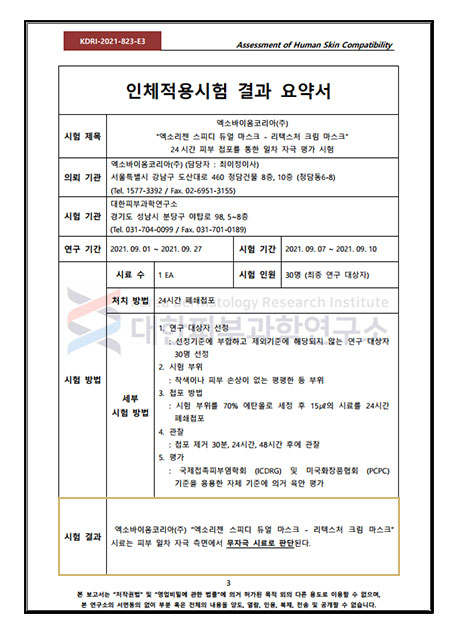
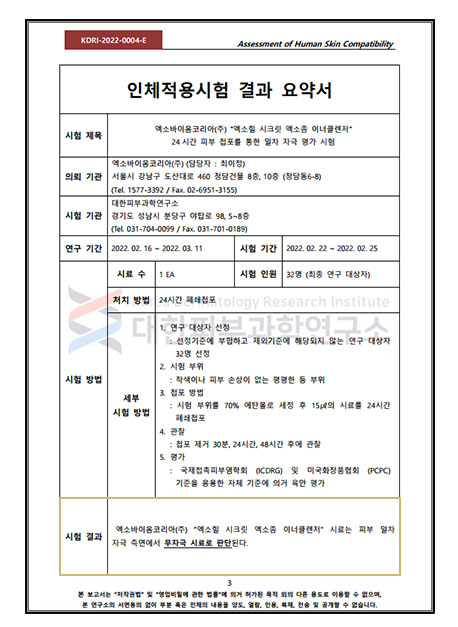
[PC/대한피부과학연구소] 이너 클렌저 & 이너 미스트 & 이너 세럼 컨텐츠 추가

Changed region(s): [[0.0306, 0.0303, 0.9476, 1.0]]

diff --git a/brand06.html b/brand06.html
@@ -312,22 +312,31 @@
                 <div class="b06-cont">
                     <div class="tab-outer">
                         <div class="tab-wrap swiper-container" id="tabSwiper">
-                            <ul class="tab-list swiper-wrapper" style="justify-content: center;">
+                            <ul class="tab-list swiper-wrapper" style="padding: 0 49px;">
                                 <li class="swiper-slide">
                                     <a href="#none" class="tab choice">스칼프 엑스퍼트 엑소좀 샴푸</a>
                                 </li>
                                 <li class="swiper-slide">
                                     <a href="#none" class="tab">스칼프 엑스퍼트 엑소좀 앰플 트리트먼트</a>
                                 </li>
+                                <li class="swiper-slide">
+                                    <a href="#none" class="tab">시크릿 엑소좀 이너 클렌저</a>
+                                </li>
+                                <li class="swiper-slide">
+                                    <a href="#none" class="tab">시크릿 엑소좀 이너 미스트</a>
+                                </li>
+                                <li class="swiper-slide">
+                                    <a href="#none" class="tab">시크릿 엑소좀 이너 세럼</a>
+                                </li>
                             </ul>
-                            <!--<div class="swiper-button-next">
+                            <div class="swiper-button-next">
                                 <img src="/img_/icon/tab-next.png" alt="">
                                 <img src="/img_/icon/tab-next-active.png" alt="">
                             </div>
                             <div class="swiper-button-prev">
                                 <img src="/img_/icon/tab-prev.png" alt="">
                                 <img src="/img_/icon/tab-prev-active.png" alt="">
-                            </div>-->
+                            </div>
                         </div>
                     </div>
                     <div class="cont-wrap">
@@ -335,7 +344,7 @@
                         <div class="cont cont1-box cont-show">
                             <div class="cont2-1 flex-cont flex-start">
                                 <div class="cont-sub1 type2-sub1">
-                                    <img src="/img_/brand/brand06/permit-1.jpg" alt="세럼 투 폼 버블 클렌저 요약서" />
+                                    <img src="/img_/brand/brand06/permit-1.jpg" alt="스칼프 엑스퍼트 엑소좀 앰플 샴푸 요약서" />
                                 </div>
                                 <div class="cont-sub2 type2-sub2">
                                     <h4>
@@ -350,7 +359,7 @@
                                         <b>시험결과</b>
                                         <p>
                                             엑소바이옴코리아(주)"엑소힐 스칼프 엑스퍼트 엑소좀 앰플 샴푸" 시료는 <br />
-                                            피부 일차 자극 측면에서 <strong>무자극 시료로 판단된다</strong>
+                                            피부 일차 자극 측면에서 <strong>무자극 시료로 판단된다.</strong>
                                         </p>
                                     </div>
                                 </div>
@@ -369,7 +378,7 @@
                         <div class="cont cont2-box">
                             <div class="cont2-1 flex-cont flex-start">
                                 <div class="cont-sub1 type2-sub1">
-                                    <img src="/img_/brand/brand06/permit-2.jpg" alt="스피듀얼 마스크/리텍스처 크림 마스크 요약서" />
+                                    <img src="/img_/brand/brand06/permit-2.jpg" alt="스칼프 엑스퍼트 엑소좀 앰플 트리트먼트 요약서" />
                                 </div>
                                 <div class="cont-sub2 type2-sub2">
                                     <h4>
@@ -384,7 +393,7 @@
                                         <b>시험결과</b>
                                         <p>
                                             엑소바이옴코리아(주)"엑소힐 스칼프 엑스퍼트 엑소좀 앰플 트리트먼트" 시료는 <br />
-                                            피부 일차 자극 측면에서 <strong>무자극 시료로 판단된다</strong>
+                                            피부 일차 자극 측면에서 <strong>무자극 시료로 판단된다.</strong>
                                         </p>
                                     </div>
                                 </div>
@@ -397,6 +406,105 @@
                                 </div>
                             </div>
                         </div>
+
+                        <!-- cont3 -->
+                        <div class="cont cont3-box">
+                            <div class="cont2-1 flex-cont flex-start">
+                                <div class="cont-sub1 type2-sub1">
+                                    <img src="/img_/brand/brand06/permit-3.jpg" alt="시크릿 엑소좀 이너 클렌저" />
+                                </div>
+                                <div class="cont-sub2 type2-sub2">
+                                    <h4>
+                                        피부 자극 테스트 완료
+                                    </h4>
+                                    <div class="b06-mark-wrap">
+                                        <p>엑소힐 시크릿 엑소좀 이너 클렌저</p>
+                                        <img src="/img_/brand/b06-mark-only-biome.jpg" alt="대한 피부 과학 연구소 인증 마크">
+                                    </div>
+
+                                    <div class="b06-description-wrap">
+                                        <b>시험결과</b>
+                                        <p>
+                                            엑소바이옴코리아(주)"엑소힐 시크릿 엑소좀 이너 클렌저" 시료는 <br />
+                                            피부 일차 자극 측면에서 <strong>무자극 시료로 판단된다.</strong>
+                                        </p>
+                                    </div>
+                                </div>
+                            </div>
+                            <div class="summary-wrap">
+                                <img src="/img_/brand/b06-chk.jpg" alt="">
+                                <div class="summary-txt-box">
+                                    <p>인체 적용 시험 결과 요약서</p>
+                                    <p>기관:피부과학연구소 | 기간: 2022.02.22 ~ 2022.02.25 | 인원: 32명</p>
+                                </div>
+                            </div>
+                        </div> 
+                        
+                        <!-- cont4 -->
+                        <div class="cont cont4-box">
+                            <div class="cont2-1 flex-cont flex-start">
+                                <div class="cont-sub1 type2-sub1">
+                                    <img src="/img_/brand/brand06/permit-4.jpg" alt="시크릿 엑소좀 이너 미스트 요약서" />
+                                </div>
+                                <div class="cont-sub2 type2-sub2">
+                                    <h4>
+                                        피부 자극 테스트 완료
+                                    </h4>
+                                    <div class="b06-mark-wrap">
+                                        <p>엑소힐 시크릿 엑소좀 이너 미스트</p>
+                                        <img src="/img_/brand/b06-mark-only-biome.jpg" alt="대한 피부 과학 연구소 인증 마크">
+                                    </div>
+
+                                    <div class="b06-description-wrap">
+                                        <b>시험결과</b>
+                                        <p>
+                                            엑소바이옴코리아(주)"엑소힐 시크릿 엑소좀 이너 미스트" 시료는 <br />
+                                            피부 일차 자극 측면에서 <strong>무자극 시료로 판단된다.</strong>
+                                        </p>
+                                    </div>
+                                </div>
+                            </div>
+                            <div class="summary-wrap">
+                                <img src="/img_/brand/b06-chk.jpg" alt="">
+                                <div class="summary-txt-box">
+                                    <p>인체 적용 시험 결과 요약서</p>
+                                    <p>기관:피부과학연구소 | 기간: 2022.02.08 ~ 2022.02.11 | 인원: 31명</p>
+                                </div>
+                            </div>
+                        </div> 
+
+                        <!-- cont5 -->
+                        <div class="cont cont5-box">
+                            <div class="cont2-1 flex-cont flex-start">
+                                <div class="cont-sub1 type2-sub1">
+                                    <img src="/img_/brand/brand06/permit-5.jpg" alt="시크릿 엑소좀 이너 세럼 요약서" />
+                                </div>
+                                <div class="cont-sub2 type2-sub2">
+                                    <h4>
+                                        피부 자극 테스트 완료
+                                    </h4>
+                                    <div class="b06-mark-wrap">
+                                        <p>엑소힐 시크릿 엑소좀 이너 세럼</p>
+                                        <img src="/img_/brand/b06-mark-only-biome.jpg" alt="대한 피부 과학 연구소 인증 마크">
+                                    </div>
+
+                                    <div class="b06-description-wrap">
+                                        <b>시험결과</b>
+                                        <p>
+                                            엑소바이옴코리아(주)"엑소힐 시크릿 엑소좀 이너 세럼" 시료는 <br />
+                                            피부 일차 자극 측면에서 <strong>무자극 시료로 판단된다.</strong>
+                                        </p>
+                                    </div>
+                                </div>
+                            </div>
+                            <div class="summary-wrap">
+                                <img src="/img_/brand/b06-chk.jpg" alt="">
+                                <div class="summary-txt-box">
+                                    <p>인체 적용 시험 결과 요약서</p>
+                                    <p>기관:피부과학연구소 | 기간: 2022.04.26 ~ 2022.04.29 | 인원: 33명</p>
+                                </div>
+                            </div>
+                        </div> 
                     </div>
                 </div>
             </div>
@@ -782,16 +890,15 @@
     <!-------...FOOTER------->
     <script type="text/javascript">
         $(function () {
-            /*var tabSwiper = new Swiper("#tabSwiper", {
+            var tabSwiper = new Swiper("#tabSwiper", {
                 slidesPerView: "auto",
                 spaceBetween: 90,
-                centeredSlides: true,
-                touchRatio: 0,
+                width: 1300,
                 navigation: {
                     nextEl: ".tab-wrap .swiper-button-next",
                     prevEl: ".tab-wrap .swiper-button-prev"
                 }
-            });*/
+            });
         });
     </script>
     <script type="text/javascript" src="/src_/js/brand-sub.js"></script>

diff --git a/brand06-02.html b/brand06-02.html
@@ -314,7 +314,10 @@
                         <div class="tab-wrap">
                             <ul class="tab-list">
                                 <li>
-                                    <a href="#none" class="tab choice zero">스칼프 엑스퍼트 엑소좀 샴푸</a>
+                                    <a href="#none" class="tab choice">스칼프 엑스퍼트 엑소좀 샴푸</a>
+                                </li>
+                                <li>
+                                    <a href="#none" class="tab">엑소힐 시크릿 엑소좀 이너 세럼</a>
                                 </li>
                             </ul>
                         </div>
@@ -497,6 +500,148 @@
                         </div>
                     </div>
                     <!-- ...cont1 -->
+
+                    <!-- cont 2-->
+                    <div class="cont cont2-box">
+                        <div class="cont-wrap1">
+                            <div class="section-inner">
+                                <div class="cont1-1 flex-cont">
+                                    <div class="cont-sub1">
+                                        <img src="/img_/brand/brand06-02/permit03.jpg" alt="엑소힐 시크릿 엑소좀 이너세럼 보습지속력 평가시험지" />
+                                    </div>
+                                    <div class="cont-sub2">
+                                        <h4>
+                                            24시간 보습 지속력 효능 평가 시험 완료
+                                        </h4>
+                                        <div class="b06-mark-wrap">
+                                            <p>엑소힐 시크릿 엑소좀 이너 세럼</p>
+                                            <img src="/img_/brand/b06-mark-only-biome.jpg" alt="대한 피부 과학 연구소 인증 마크">
+                                        </div>
+
+                                        <div class="b06-description-wrap">
+                                            <b>시험결과</b>
+                                            <p>
+                                                총 22명의 연구 대상자를 대상으로 시험한 결과 엑소바이옴코리아(주) <strong>“엑소힐 시크릿<br />
+                                                엑소좀 이너 세럼” 시료를 1회 도포한 시험 부위는 무도포 대조 부위에 비해 통계적으로<br />
+                                                유익한  수준(p&lt;0.05)으로 높은 피부 수분함량을 나타내며, 이러한 차이가 24시간 동안 <br />
+                                                지속되어 시험 시료가 24시간 지속되는 보습력을 가지고 있는 것으로 판단</strong>된다.<br />
+                                                또한 시험 중 모든 연구 대상자에서 특별한 이상반응이 관찰되지 않았다.<br />
+                                                (일시적, 개인차 있음)
+                                            </p>
+                                        </div>
+                                    </div>
+                                </div>
+                                <div class="summary-wrap">
+                                    <img src="/img_/brand/b06-chk.jpg" alt="">
+                                    <div class="summary-txt-box">
+                                        <p>인체 적용 시험 결과 요약서</p>
+                                        <p>기관:피부과학연구소 | 기간: 2022.05.09 ~ 2022.05.10 | 인원: 22명</p>
+                                    </div>
+                                </div>
+                            </div>
+                            <div class="graph-wrap">
+                                <div class="section-inner">
+                                    <h4>
+                                        임상으로 검증 받은 <strong>24시간 보습 지속력 효과</strong>
+                                    </h4>
+                                    <img src="/img_/brand/brand06-02/graph-serum01.png" alt="그래프">
+                                </div>
+                            </div>
+                        </div>
+
+                        <div class="cont-wrap2">
+                            <div class="section-inner">
+                                <div class="cont1-1 flex-cont">
+                                    <div class="cont-sub1">
+                                        <img src="/img_/brand/brand06-02/permit04.jpg" alt="엑소힐 시크릿 엑소좀 이너 세럼 전피 탄력 개선 효능 평가 시험지" />
+                                    </div>
+                                    <div class="cont-sub2">
+                                        <h4>
+                                            전피 탄력 개선 효능 평가 시험
+                                        </h4>
+                                        <div class="b06-mark-wrap">
+                                            <p>시크릿 엑소좀 이너 세럼</p>
+                                            <img src="/img_/brand/b06-mark-only-biome.jpg" alt="대한 피부 과학 연구소 인증 마크" />
+                                        </div>
+
+                                        <div class="b06-description-wrap">
+                                            <b>시험결과</b>
+                                            <p>
+                                                시험결과 총 4주간의 시험 기간 동안 21명의 연구 대상자를 대상으로 시험한 결과,<br />
+                                                엑소바이옴코리아㈜ “엑소힐 시크릿 엑소좀 이너 세럼“ 시료를 사용한 시험 부위는<br />
+                                                시험 2주 후 부터 시험 전에 비해 통계적으로 <strong>유의한 수준(p&lt;0.05)으로 전피 탄력이<br />
+                                                증가하여 , 시험 시료가 전피 탄력 개선에 도움을 줄수 있는것으로 판단 된다.</strong> <br />
+                                                또한 시험 중 모든 연구 대상자에서 특별한 이상반응이 관찰되지 않았다. <br />
+                                                (일시적, 개인차 있음)
+                                            </p>
+                                        </div>
+                                    </div>
+                                </div>
+                                <div class="summary-wrap">
+                                    <img src="/img_/brand/b06-chk.jpg" alt="">
+                                    <div class="summary-txt-box">
+                                        <p>인체 적용 시험 결과 요약서</p>
+                                        <p>기관:피부과학연구소 | 기간: 2022.05.11 ~ 2022.06.08 | 인원: 21명</p>
+                                    </div>
+                                </div>                            
+                            </div>
+
+                            <div class="graph-wrap">
+                                <div class="section-inner">
+                                    <h4>
+                                        임상으로 검증 받은 <strong>전피 탄력 개선 효능 평가 시험</strong>
+                                    </h4>
+                                    <img src="/img_/brand/brand06-02/graph-serum02.png" alt="그래프">
+                                </div>
+                            </div>
+                            
+                            <ul class="percentage-list">
+                                <li>
+                                    <img src="/img_/brand/brand06-02/percent95-lg.png" />
+                                    <p>
+                                        속 탄력이 <br />
+                                        개선되었어요.
+                                    </p>
+                                </li>
+                                <li>
+                                    <img src="/img_/brand/brand06-02/percent100.png" />
+                                    <p>
+                                        피부가 촉촉하고 <br />
+                                        당기지 않아요.
+                                    </p>
+                                </li>
+                                <li>
+                                    <img src="/img_/brand/brand06-02/percent95-lg.png" />
+                                    <p>
+                                        피부에서 <br />
+                                        윤기가 흘러요
+                                    </p>
+                                </li>
+                                <li>
+                                    <img src="/img_/brand/brand06-02/percent95.png" />
+                                    <p>
+                                        생기있고 컨디셔닝이 <br />
+                                        좋아졌어요.
+                                    </p>
+                                </li>
+                                <li>
+                                    <img src="/img_/brand/brand06-02/percent86.png" />
+                                    <p>
+                                        끈적임이 없고 <br />
+                                        흡수가 빨라요.
+                                    </p>
+                                </li>
+                                <li>
+                                    <img src="/img_/brand/brand06-02/percent81.png" />
+                                    <p>
+                                        제품의 향이 <br />
+                                        좋았어요.
+                                    </p>
+                                </li>
+                            </ul>
+                        </div>
+                    </div>
+                    <!-- ...cont2 -->
                 </div>
             </div>
             </div>

diff --git a/src_/css/brand-sub.css b/src_/css/brand-sub.css
@@ -280,7 +280,7 @@
 
 .brand06 .cont-sub1 { box-shadow: 0 0 20px #999; position: relative; } 
 
-.brand06 .cont-sub1:after { content: " "; display: block; width: 146px; height: 140px; background: url(/img_/brand/b06-cont.png) no-repeat; position: absolute; right: -85px; bottom: 93px; } 
+.brand06 .cont-sub1:after { content: " "; display: block; width: 146px; height: 140px; background: url(/img_/brand/b06-cont.png) no-repeat; position: absolute; right: -87px; bottom: 95px; } 
 
 .brand06 .cont-sub2 { width: 100%; } 
 
@@ -291,7 +291,7 @@
 .brand06 .cont-sub2 .b06-mark-wrap p { font-size: 30px; } 
 
 
-.brand06 .cont-sub2 .b06-description-wrap { padding-lefT: 30px; } 
+.brand06 .cont-sub2 .b06-description-wrap { padding-left: 30px; } 
 
 .brand06 .cont-sub2 .b06-description-wrap b { font-size: 24px; } 
 
